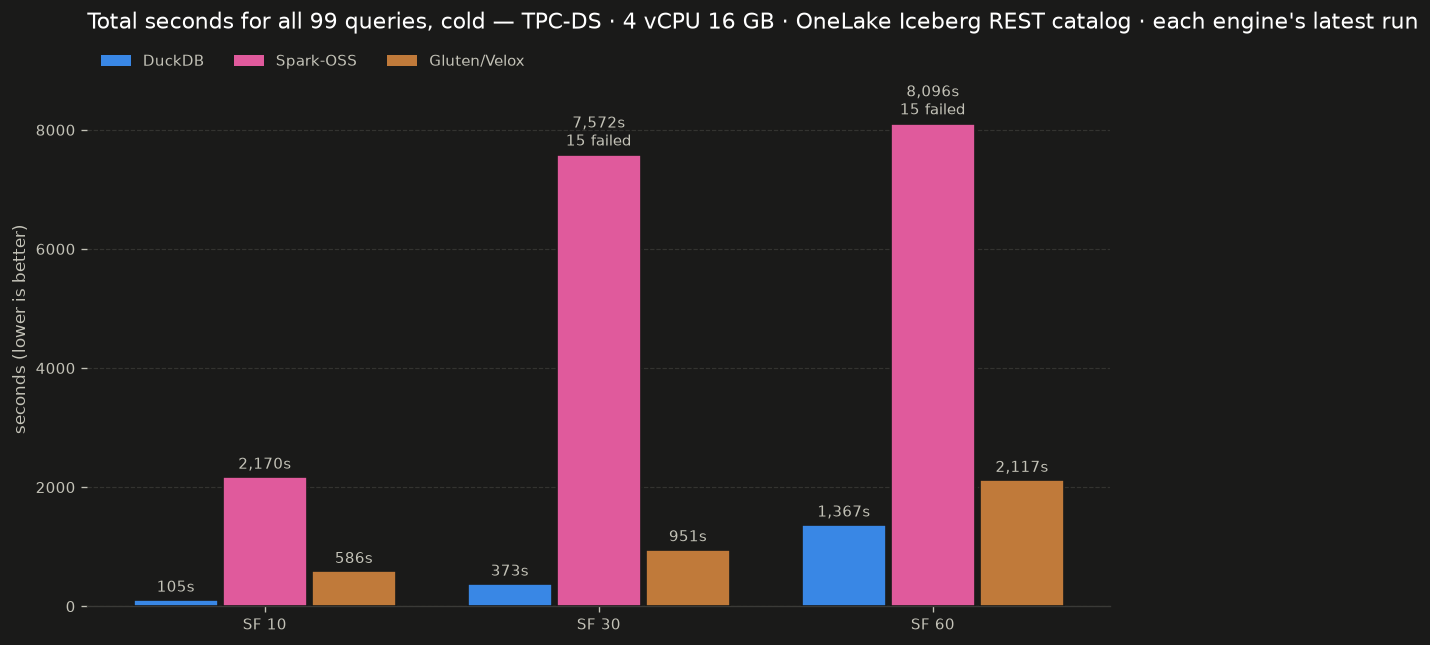
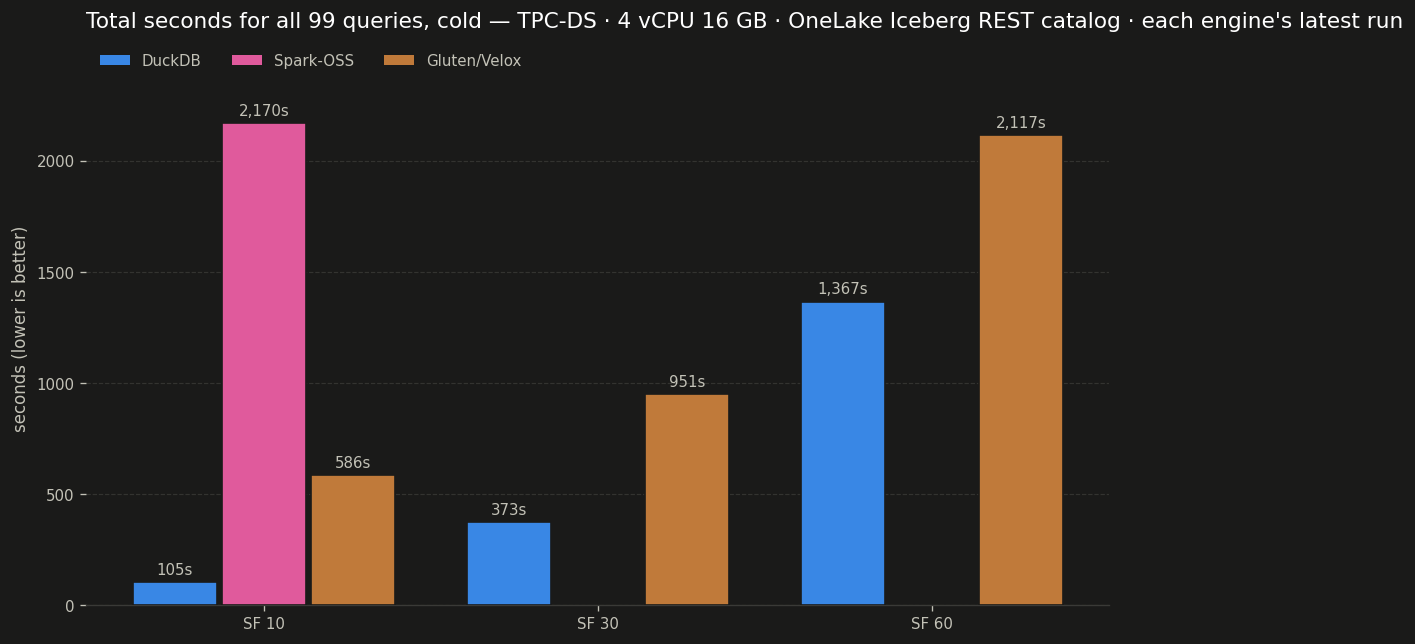
tpcds: totals chart shows only runs that completed all 99
A total over the statements that finished leaves out the ones that
died, so Spark-OSS at SF=30 and 60 (15 failed each, catalog token past
two hours) read as fast when neither is a total. An engine whose latest
run at a scale lost any statement now has no bar there.

diff --git a/bench/tpch/charts.py b/bench/tpch/charts.py
@@ -259,9 +259,11 @@ def totals_by_sf(
     """Grouped bars: cold total per engine, one group per scale factor. TPC-DS's totals chart.
 
     Each engine's LATEST run at each scale, not an average: SF=30 and 60 have one run apiece,
-    and averaging SF=10's five against them would compare a mean with a sample. A run that lost
-    statements is labelled with how many, because its total counts only the ones that finished
-    and would otherwise read as fast.
+    and averaging SF=10's five against them would compare a mean with a sample.
+
+    ONLY A RUN THAT COMPLETED EVERY STATEMENT GETS A BAR. A total over the statements that
+    finished leaves out the ones that died, so it reads as fast when it is not a total at all.
+    An engine whose latest run at a scale lost any statement has no bar there.
     """
     rows = con.execute(
         f"""
@@ -281,13 +283,13 @@ def totals_by_sf(
         """,
         [test],
     ).fetchall()
-    if not rows:
+    data = {(engine, sf): dur for engine, sf, dur, failed in rows if failed == 0 and dur}
+    if not data:
         return []
-    data = {(engine, sf): (dur or 0.0, failed) for engine, sf, dur, failed in rows}
     engines = [e for e in ENGINES if any(k[0] == e for k in data)]
     shown = [s for s in sfs if any(k[1] == s for k in data)]
     width = 0.8 / len(engines)
-    top = max(v[0] for v in data.values())
+    top = max(data.values())
 
     paths = []
     for theme in THEMES.values():
@@ -296,7 +298,7 @@ def totals_by_sf(
             for group, sf in enumerate(shown):
                 if (engine, sf) not in data:
                     continue
-                dur, failed = data[(engine, sf)]
+                dur = data[(engine, sf)]
                 x = group + (slot - (len(engines) - 1) / 2) * width
                 ax.bar(
                     x,
@@ -307,11 +309,10 @@ def totals_by_sf(
                     linewidth=1.0,
                     zorder=3,
                 )
-                label = f"{dur:,.0f}s" + (f"\n{failed} failed" if failed else "")
                 ax.text(
                     x,
                     dur + top * 0.01,
-                    label,
+                    f"{dur:,.0f}s",
                     ha="center",
                     va="bottom",
                     fontsize=9,
